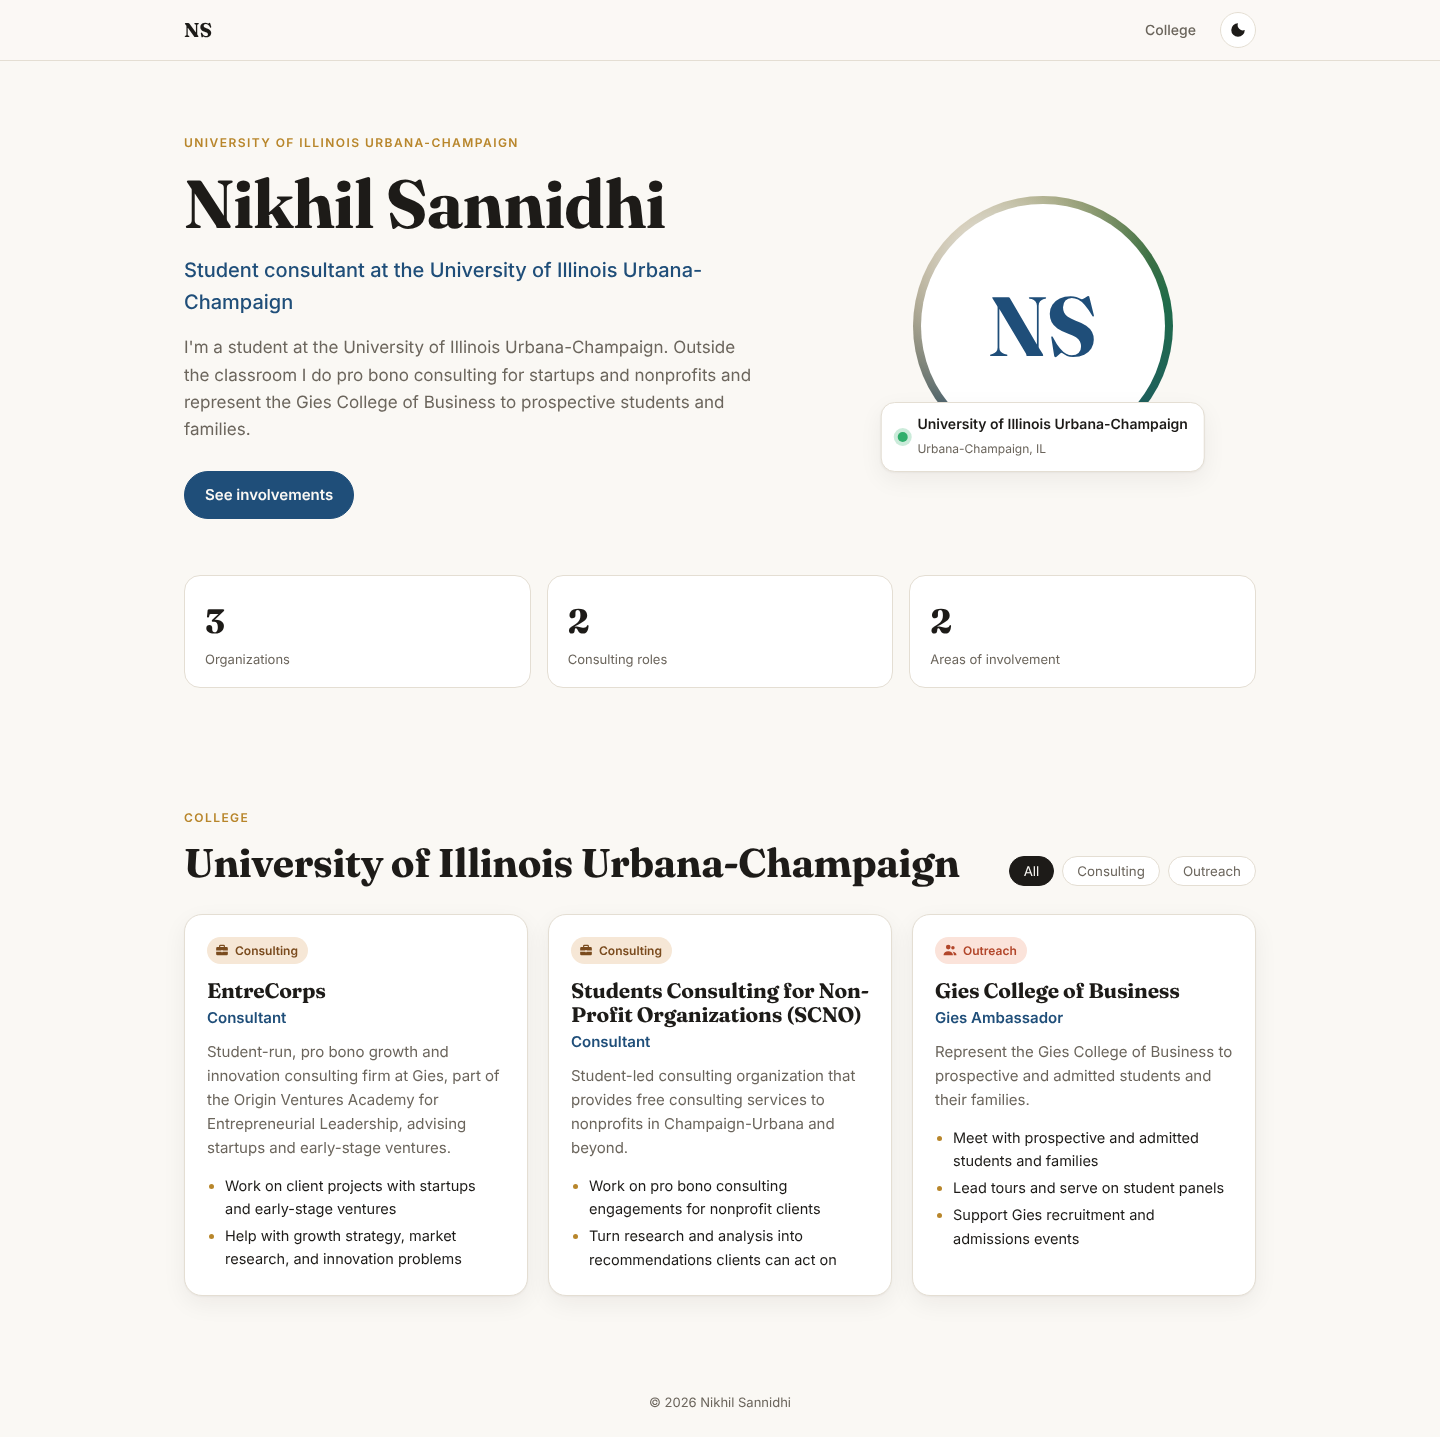
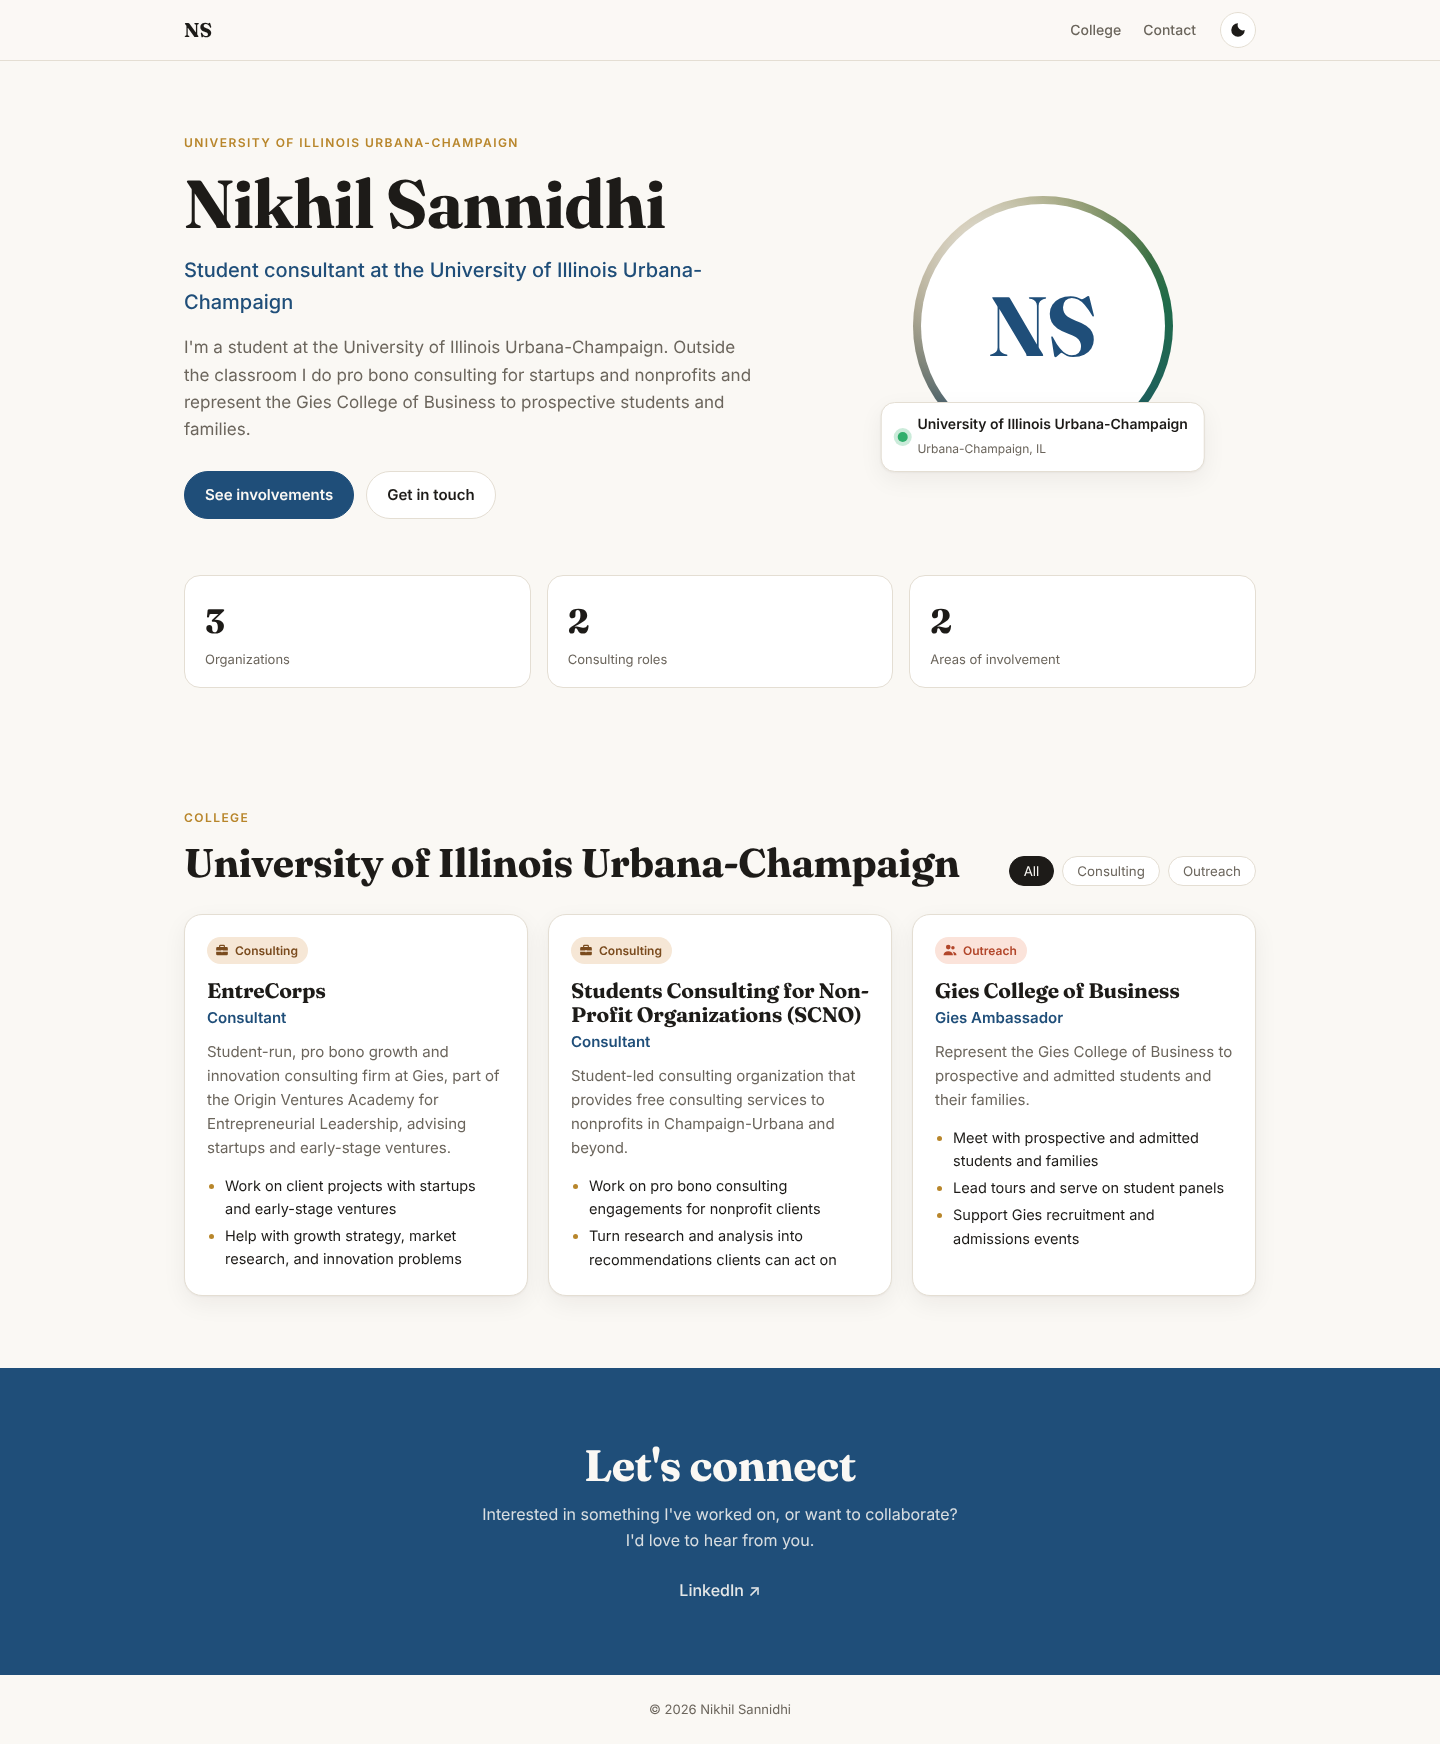
Add LinkedIn link to profile
Claude-Session: https://claude.ai/code/session_01SgPyzMhAcse7iobPH7wj7d

diff --git a/assets/content.js b/assets/content.js
@@ -32,7 +32,7 @@ window.PROFILE = {
   location: "Urbana-Champaign, IL",
   email: "",          // e.g. "nikhil@example.com"
   links: [
-    // { label: "LinkedIn", url: "https://www.linkedin.com/in/your-handle" },
+    { label: "LinkedIn", url: "https://www.linkedin.com/in/nikhilsannidhi/" },
     // { label: "Résumé (PDF)", url: "resume.pdf" },
   ],
 };
